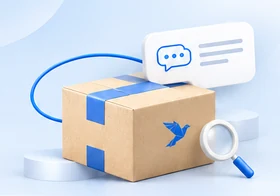
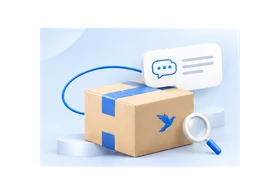
Help centre landing: answer the review of the second pass
The card description is no longer clamped, as the design clamps nothing: at
1024, 640-696 and 320-336px three English lines were cut mid-word. Those
three are shorter now, so every card reads in four lines at most at any
width from 320 to 1440px, in both languages.

The drawing matcher's general words read last. "Policy" sat with the
claims words at the front, so "Return policy" or سياسة الإرجاع would have
drawn the claims shield; "app" and "product" sat before the store, so "Apps
& Integrations" drew the account. Both now match only a name that says
nothing more particular. Prohibited and forbidden items stay with claims.

A Freshdesk re-import keeps a folder's description when Freshdesk has none,
which is all of production's, so it cannot empty the cards until the next
deploy refills them.

Closer to the design's measurements: inside .kb-shell only, text-xs is
13px, text-2xs 12px, text-lg 17px and tracking-tight -0.011em (text-base
stays 16px for iOS's sake); article rows, next-article cards, the language
switch and the footer's name at 500; Arabic titles at the design's 1.25;
the header's mark at the design's bird size in a 56px header; the FAQs
drawing re-exported with a transparent margin so the card's fade keeps its
magnifier. The ten "All articles (N)" links name whose list they open.

Claude-Session: https://claude.ai/code/session_013zH55BEzFD3snqWufMiv9W

diff --git a/app/globals.css b/app/globals.css
@@ -121,20 +121,21 @@
      an Arabic `unicode-range`, so Latin falls straight through to the system
      font and keeps its 500/600 weights.
 
-     Its own family name, not 'Tajawal', on purpose. next/font's Tajawal — the
-     help centre's, in app/help/[locale]/fonts.ts — declares a Latin-range face
-     alongside the Arabic one whatever `subsets` says (`subsets` only picks what
-     is preloaded), and its variable carries a 'Tajawal Fallback' face that is
-     Arial with no range at all. Either one under this stack would set every
-     Latin letter in the console in Tajawal or Arial. The help centre's stack
-     stays on the .kb-shell rule, where var(--font-geist) resolves. */
+     Its own family name, not 'Tajawal', on purpose. next/font's Tajawal — which
+     the help centre loaded until it moved to Geist and Rubik — declares a
+     Latin-range face alongside the Arabic one whatever `subsets` says (`subsets`
+     only picks what is preloaded), and its variable carries a 'Tajawal
+     Fallback' face that is Arial with no range at all. Either one under this
+     stack would set every Latin letter in the console in Tajawal or Arial. The
+     help centre's stack stays on the .kb-shell rule, where var(--font-geist)
+     resolves. */
   --font-console:
     'Tajawal Arabic', ui-sans-serif, system-ui, -apple-system, 'Segoe UI', Roboto, 'Helvetica Neue',
     Arial, sans-serif;
   /* Message text only: bubbles, reply boxes (console, widget, portal) and the
      message lines of a conversation-list row, so a draft looks like the
-     message it becomes. Arabic there is set in Rubik, everywhere else in
-     Tajawal. 'Rubik Arabic' is declared below `@theme` with the same Arabic
+     message it becomes. Arabic there is set in Rubik, everywhere else in the
+     console in Tajawal. 'Rubik Arabic' is declared below `@theme` with the same Arabic
      `unicode-range` and for the same reason as 'Tajawal Arabic': led by it,
      the stack swaps Arabic letters and leaves Latin on the surface's own face.
      next/font's Rubik would bring a Latin face and an Arial fallback with no
@@ -183,7 +184,9 @@
   --leading-latin-tight: 1.25;
   --leading-arabic-tight: 1.45;
   --leading-read-ar: 1.85;
-  --leading-read-heading-ar: 1.5;
+  /* The help-centre design's own leading for its Rubik titles. Tajawal, set
+     before it, needed 1.5 for its tall marks. */
+  --leading-read-heading-ar: 1.25;
   /* Latin eyebrows only. Arabic has no case, and tracking breaks its joins. */
   --tracking-eyebrow: 0.08em;
 
@@ -726,8 +729,7 @@ body {
   background: var(--color-background-canvas);
   color: var(--color-text-primary);
   /* System UI for Latin, so the console keeps the 500 and 600 weights its
-     hierarchy is built from (Lato ships 400/700/900 only), and Tajawal for
-     Arabic — see --font-console. */
+     hierarchy is built from, and Tajawal for Arabic — see --font-console. */
   font-family: var(--font-console);
   /* Tabular figures in the console keep ticket numbers and counts from jittering
      as they change. */
@@ -830,6 +832,16 @@ body {
     Roboto, 'Noto Sans Arabic', sans-serif;
   --font-conversation: 'Rubik Arabic', var(--font-help);
   font-family: var(--font-help);
+  /* The help-centre design's size ramp where it differs from Tailwind's, which
+     the console keeps: xs 13px, 2xs 12px and lg 17px, and its tighter
+     -0.011em. Redefined here rather than at the call sites, so every
+     `text-xs` under `app/help/` takes the design's value and none can be
+     missed. Not `text-base`: a form field under 640px stays at 16px, or iOS
+     zooms the page into it (`components/ui.tsx`). */
+  --text-2xs: 0.75rem;
+  --text-xs: 0.8125rem;
+  --text-lg: 1.0625rem;
+  --tracking-tight: -0.011em;
   /* The console runs tabular figures so ticket numbers stop jittering. Prose
      wants the proportional ones. */
   font-variant-numeric: normal;

diff --git a/lib/kb/art.ts b/lib/kb/art.ts
@@ -48,17 +48,17 @@ const TOPIC_KEYWORDS: ReadonlyArray<readonly [TopicArt, ReadonlyArray<string>]> 
       'damage',
       'claim',
       'compensation',
-      'polic',
-      'regulation',
+      'prohibit',
+      'forbidden',
+      'restricted',
       'مفقود',
       'فقد',
       'تالف',
       'تلف',
       'مطالب',
       'تعويض',
-      'سياس',
-      'لائح',
-      'لوائح',
+      'محظور',
+      'ممنوع',
     ],
   ],
   ['returns', ['return', 'exchange', 'rto', 'مرتجع', 'ارتجاع', 'استبدال', 'إرجاع']],
@@ -81,32 +81,11 @@ const TOPIC_KEYWORDS: ReadonlyArray<readonly [TopicArt, ReadonlyArray<string>]> 
       'تحويل',
     ],
   ],
-  // The design's account-settings drawing, a person and a gear. The design put
-  // it on "Pickups & deliveries"; production's "ShipBlu Unique Products" (the
-  // dashboard, analytics, sub-accounts) and "myBlu Support" (the app) are the
-  // account and its features, and it fits them better than it fits a pickup.
+  // The design's account-settings drawing, a person and a gear, which the
+  // design put on "Pickups & deliveries".
   [
     'account',
-    [
-      'pickup',
-      'pick-up',
-      'deliver',
-      'courier',
-      'account',
-      'product',
-      'dashboard',
-      'myblu',
-      'app',
-      'استلام',
-      'تسليم',
-      'توصيل',
-      'مندوب',
-      'الكابتن',
-      'حساب',
-      'منتج',
-      'تطبيق',
-      'ماي بلو',
-    ],
+    ['pickup', 'pick-up', 'deliver', 'courier', 'استلام', 'تسليم', 'توصيل', 'مندوب', 'الكابتن'],
   ],
   [
     'store',
@@ -146,6 +125,19 @@ const TOPIC_KEYWORDS: ReadonlyArray<readonly [TopicArt, ReadonlyArray<string>]> 
       'عملاء',
       'مستلم',
     ],
+  ],
+  // The general words, behind every subject, each read only when a name says
+  // nothing more particular. A policy is about its subject before it is a
+  // policy: "Return policy" is a return, and only "Policies and Regulations"
+  // draws the shield.
+  ['claims', ['polic', 'regulation', 'سياس', 'لائح', 'لوائح']],
+  // The account and what it gives a merchant, on the account drawing:
+  // production's "ShipBlu Unique Products" (the dashboard, analytics,
+  // sub-accounts) and "myBlu Support" (the app). Behind the store, so "Apps &
+  // Integrations" is an integration.
+  [
+    'account',
+    ['account', 'product', 'dashboard', 'myblu', 'app', 'حساب', 'منتج', 'تطبيق', 'ماي بلو'],
   ],
   // Last, as the most general subject there is: "Shipping FAQs" is about
   // shipping before it is a list of questions.

diff --git a/app/help/[locale]/home.tsx b/app/help/[locale]/home.tsx
@@ -163,6 +163,9 @@ export function TopicGroups({ locale, groups }: { locale: Locale; groups: TopicG
             </h3>
             <Link
               href={`/${locale}/c/${group.slug}`}
+              // The visible words first, then whose: ten "All articles (N)"
+              // links on one page read alike in a screen reader's links list.
+              aria-label={`${tCount(locale, 'allArticles', group.articleCount)} — ${group.name}`}
               className="text-xs font-medium text-(--color-text-link) underline-offset-2 hover:text-(--color-text-link-hover) hover:underline"
             >
               {tCount(locale, 'allArticles', group.articleCount)}
@@ -209,6 +212,10 @@ function TopicGrid({ children }: { children: ReactNode }) {
  * three titles are the thing itself, and a visitor who spots the one they came
  * for skips the folder page entirely.
  *
+ * The description is never clamped, as in the design: the lines are ours
+ * (`db/sql/010_kb_folder_descriptions.sql`) and short, and a longer one only
+ * deepens its row, whose bands the subgrid keeps one height.
+ *
  * The band's 148px is the drawing's room. A folder `topicArt` does not
  * recognise gets no drawing and no minimum height either, so its band closes
  * round the name as a plain header strip rather than standing as a pale box
@@ -254,7 +261,7 @@ function TopicCard({
             {folder.name}
           </h4>
           {folder.description ? (
-            <p className="line-clamp-4 text-sm leading-relaxed text-(--color-text-secondary)">
+            <p className="text-sm leading-relaxed text-(--color-text-secondary)">
               {folder.description}
             </p>
           ) : null}
@@ -293,6 +300,7 @@ function TopicCard({
         <div className="mt-auto pt-3.5">
           <Link
             href={href}
+            aria-label={`${tCount(locale, 'allArticles', folder.articleCount)} — ${folder.name}`}
             className="inline-flex items-center gap-1.5 text-xs font-medium text-(--color-text-link) underline-offset-2 hover:text-(--color-text-link-hover) hover:underline"
           >
             {tCount(locale, 'allArticles', folder.articleCount)}

diff --git a/app/help/[locale]/layout.tsx b/app/help/[locale]/layout.tsx
@@ -64,7 +64,7 @@ export default async function KbLayout({
       </a>
 
       <header className="kb-noprint sticky top-0 z-30 border-b border-(--color-border-subtle) bg-(--color-background-surface)">
-        <Container className="flex min-h-15 flex-wrap items-center gap-x-6 gap-y-2 py-2.5">
+        <Container className="flex min-h-14 flex-wrap items-center gap-x-6 gap-y-2 py-2.5">
           <Link
             href={`/${locale}`}
             className="flex items-center gap-2.5 font-semibold text-(--color-text-primary)"
@@ -72,7 +72,7 @@ export default async function KbLayout({
             {/* The bare mark, as the design draws it on this white header. The
                 console's tile (`ShipBluLogo`) is for its navy rail, where the
                 mark needs the white behind it; here it would only add a box. */}
-            <ShipBluMark className="w-8 shrink-0" />
+            <ShipBluMark className="w-[18px] shrink-0" />
             <span className={`text-[15px] ${locale === 'ar' ? '' : 'tracking-tight'}`}>
               {t(locale, 'title')}
             </span>
@@ -141,7 +141,7 @@ export default async function KbLayout({
             links are not here because none of those pages has an address this
             system knows; every link that is here goes somewhere that answers. */}
         <Container className="flex flex-wrap items-center gap-x-5 gap-y-3 pt-6 pb-24 text-xs text-(--color-text-secondary) sm:pb-6">
-          <span lang="en" className="font-semibold text-(--color-text-primary)">
+          <span lang="en" className="font-medium text-(--color-text-secondary)">
             ShipBlu
           </span>
 
@@ -206,7 +206,7 @@ function LocaleSwitcher({ locale }: { locale: Locale }) {
       role="group"
       aria-label={t(locale, 'languageLabel')}
       dir="ltr"
-      className="flex items-center overflow-hidden rounded-md border border-(--color-border-subtle) text-xs font-semibold"
+      className="flex items-center overflow-hidden rounded-md border border-(--color-border-subtle) text-xs font-medium"
     >
       {LOCALES.map((option) =>
         option === locale ? (

diff --git a/lib/kb/art.test.ts b/lib/kb/art.test.ts
@@ -78,9 +78,19 @@ describe('topicArt', () => {
     expect(topicArt('RTO shipments')).toBe('returns');
   });
 
-  it('reads a subject before the questions it is a list of', () => {
+  it('reads a subject before the general word that comes with it', () => {
     expect(topicArt('Shipping FAQs')).toBe('shipping');
     expect(topicArt('أسئلة الدفع والتحويل')).toBe('payments');
+    // A policy is about its subject first.
+    expect(topicArt('Return policy', 'return-policy')).toBe('returns');
+    expect(topicArt('Shipping policy', 'shipping-policy')).toBe('shipping');
+    expect(topicArt('سياسة الإرجاع', 'سياسة-الإرجاع')).toBe('returns');
+    expect(topicArt('سياسة الشحن', 'سياسة-الشحن')).toBe('shipping');
+    // An app that connects a store is an integration.
+    expect(topicArt('Apps & Integrations')).toBe('store');
+    // What cannot be shipped is a rule, whatever the products are.
+    expect(topicArt('Prohibited products')).toBe('claims');
+    expect(topicArt('المنتجات الممنوع شحنها')).toBe('claims');
   });
 
   it('draws nothing for a name it does not recognise', () => {

diff --git a/worker/handlers/import-freshdesk-kb.db.test.ts b/worker/handlers/import-freshdesk-kb.db.test.ts
@@ -374,6 +374,25 @@ describe('importFreshdeskKb', () => {
     expect(await folders()).toHaveLength(3);
   });
 
+  it("keeps a folder's description on a re-run when Freshdesk has none", async () => {
+    serve(account());
+    await importFreshdeskKb();
+    // What `db/sql/010_kb_folder_descriptions.sql` does to production's
+    // folders, which Freshdesk holds no description for.
+    await db
+      .update(kbFolders)
+      .set({ description: 'Written here.' })
+      .where(eq(kbFolders.externalId, '22:ar'));
+
+    serve(account({ folders: { 11: [{ ...TRACKING, description: 'وصف جديد' }, STAFF] } }));
+    await importFreshdeskKb();
+
+    const after = await folders();
+    expect(byExternalId(after, '22:ar').description).toBe('Written here.');
+    // One Freshdesk does have still wins: it is the source of that folder.
+    expect(byExternalId(after, '21:ar').description).toBe('وصف جديد');
+  });
+
   it('adopts and repairs a row an earlier version wrote under the bare id', async () => {
     serve(account());
     await importFreshdeskKb();

diff --git a/components/brand.tsx b/components/brand.tsx
@@ -38,12 +38,14 @@ export function ShipBluMark({ className = '', ...props }: ComponentProps<'svg'>)
 }
 
 /**
- * The mark on the white rounded square it always appears in — an app icon.
+ * The mark on a white rounded square — an app icon, as the console draws it.
  *
  * The white tile is what makes the mark readable on the navy rail, where the
  * navy half of the bird would otherwise sink into the background. The ring is
- * for the other case: on a light header, a white square on white needs an edge
- * to read as a shape at all.
+ * for the other case: on a light surface, as an avatar or beside a light
+ * header, a white square on white needs an edge to read as a shape at all.
+ * The help centre's white header draws the bare `ShipBluMark` instead, as its
+ * design does.
  */
 export function ShipBluLogo({ className = '' }: { className?: string }) {
   return (

diff --git a/worker/handlers/import-freshdesk-kb.ts b/worker/handlers/import-freshdesk-kb.ts
@@ -468,11 +468,17 @@ async function upsertFolder(
     .limit(1);
 
   if (existing[0]) {
+    // A description only when Freshdesk has one. Production's folders have
+    // none there, and the help centre's are written here instead
+    // (`db/sql/010_kb_folder_descriptions.sql`); writing Freshdesk's blank back
+    // on a re-import would empty every front-page card until the next deploy
+    // filled them again.
+    const description = folder.description?.trim() ? folder.description : null;
     await db
       .update(kbFolders)
       .set({
         name: folder.name,
-        description: folder.description ?? null,
+        ...(description ? { description } : {}),
         visibility,
         categoryId,
         externalId,

diff --git a/app/help/[locale]/chrome.tsx b/app/help/[locale]/chrome.tsx
@@ -303,7 +303,7 @@ export function ArticleRow({
         {/* A div, not a span: the heading inside is flow content, which a span
             may not hold. */}
         <div className="flex min-w-0 flex-1 flex-col gap-0.5">
-          <Heading className="text-[0.9375rem] leading-snug font-semibold text-(--color-text-link) group-hover:text-(--color-text-link-hover)">
+          <Heading className="text-sm leading-snug font-medium text-(--color-text-link) group-hover:text-(--color-text-link-hover)">
             {title}
           </Heading>
           {excerpt ? (

diff --git a/db/sql/kb-folder-descriptions.db.test.ts b/db/sql/kb-folder-descriptions.db.test.ts
@@ -75,7 +75,7 @@ describe('010_kb_folder_descriptions.sql', () => {
     await run();
 
     expect(await descriptionOf(written)).toBe('Written by an editor.');
-    expect(await descriptionOf(blank)).toMatch(/^Connecting a Shopify/);
+    expect(await descriptionOf(blank)).toMatch(/^Connect a Shopify/);
   });
 
   it('leaves a folder it does not name alone, and one in another audience', async () => {

diff --git a/app/help/[locale]/a/[article]/page.tsx b/app/help/[locale]/a/[article]/page.tsx
@@ -344,7 +344,7 @@ const PAGER_CARD =
 
 const PAGER_LABEL = 'inline-flex items-center gap-1 text-2xs text-(--color-text-tertiary)';
 
-const PAGER_TITLE = 'text-sm leading-snug font-semibold text-(--color-text-link)';
+const PAGER_TITLE = 'text-sm leading-snug font-medium text-(--color-text-link)';
 
 /**
  * "Back to topic" and "Next article", the two ways on from the foot of an

diff --git a/plans/help-centre-design-v02.md b/plans/help-centre-design-v02.md
@@ -82,7 +82,8 @@ folders under them, so both are named:
   drawing
 
 An unrecognised name gets no drawing, and the layouts close up around its
-absence. A folder with no drawing of its own borrows its category's.
+absence. On its own page a folder with no drawing of its own borrows its
+category's; its card on the front page draws none.
 The payments drawing has Arabic text in the artwork itself. It is the design's own
 asset and is shown on the English page too.
 
@@ -189,8 +190,20 @@ page. The second pass closed the gap:
 - **Two drawings.** The design's question-and-search parcel, re-exported at
   280px from its 474px original, for the FAQs folders, and the account-settings
   drawing, renamed from `pickups` to `account` for what it shows.
-- **The header's bare mark**, as the design draws it on white, and the design's
-  own lede.
+- **The header's bare mark**, as the design draws it on white, at the size of
+  the design's bird, and the design's own lede.
+- **The design's sizes and weights where they differ from Tailwind's.** Inside
+  `.kb-shell` only, `text-xs` is 13px, `text-2xs` 12px, `text-lg` 17px and
+  `tracking-tight` -0.011em, as the design's tokens have them; `text-base`
+  stays 16px, because a form field below 640px must, or iOS zooms into it.
+  Article rows, the next-article cards, the language switch and the footer's
+  name are at the design's 500, and Arabic titles at its 1.25 leading.
+- **The general words read last in the drawing matcher.** "Policy", "product"
+  and "app" match only when a name says nothing more particular, so "Return
+  policy" is a return and "Apps & Integrations" an integration.
+- **A Freshdesk re-import keeps a folder's description** when Freshdesk has
+  none, which is every one of production's, so it cannot undo the descriptions
+  above.
 
 ## 7. Verified
 
